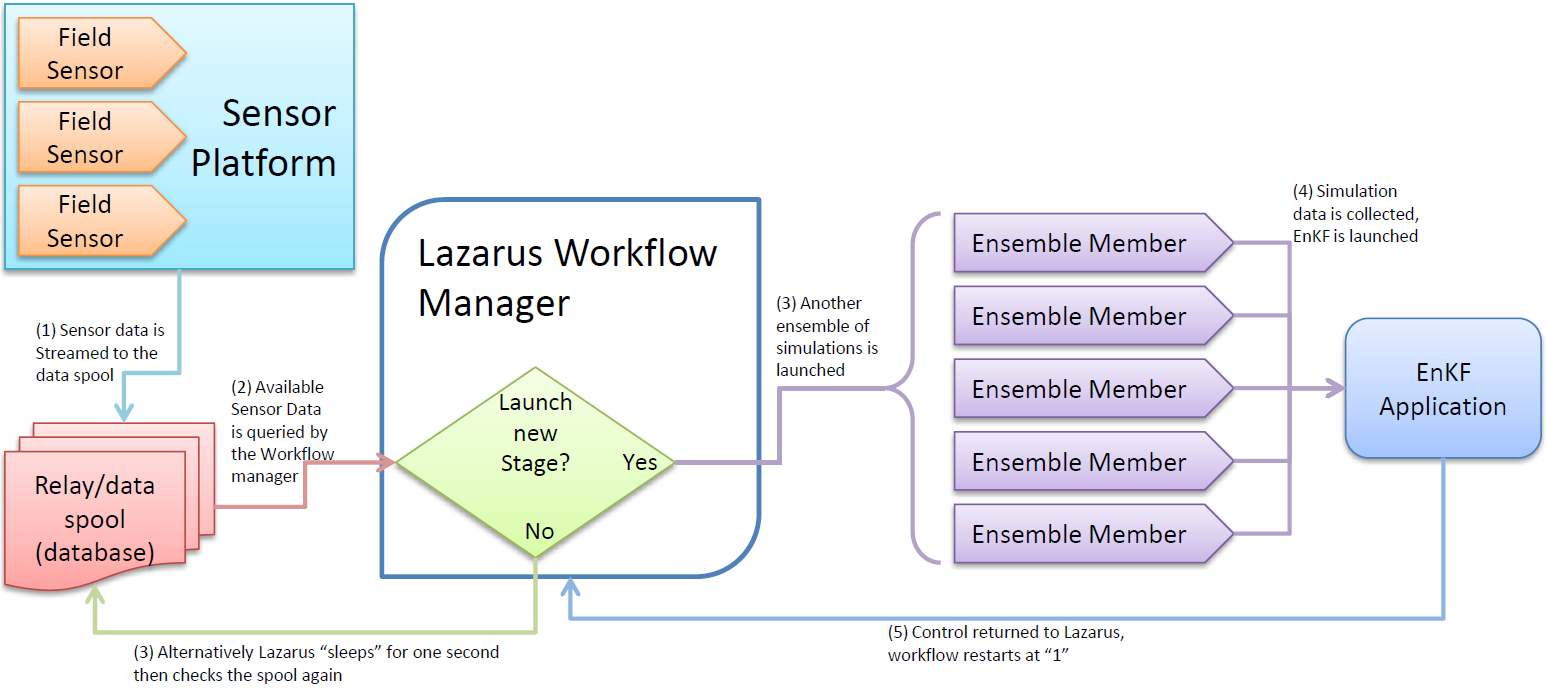
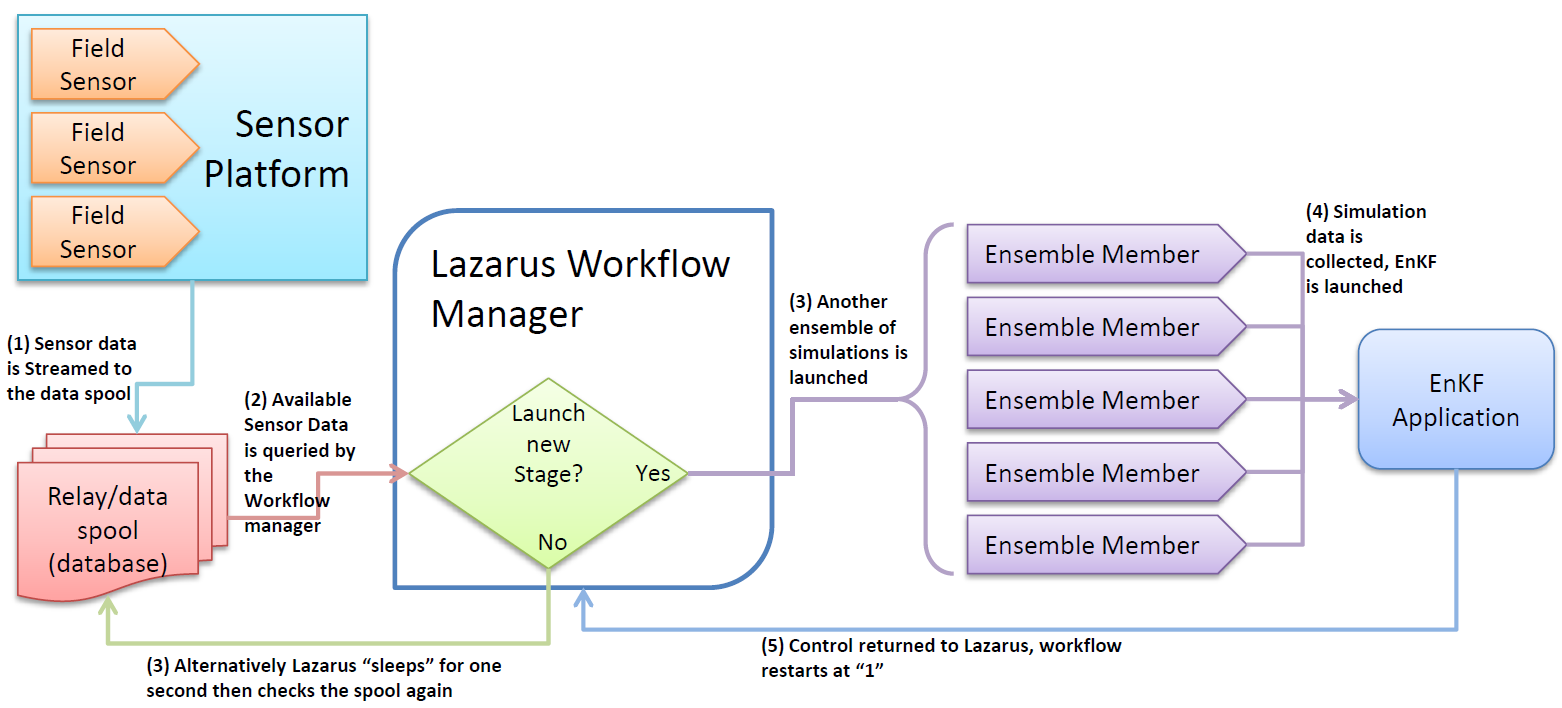
nearing final
git-svn-id: file://localhost/tmp/svn2git/svn@2732 defb5e50-622e-49ec-a68e-d72c7db87b45

Changed region(s): [[0.0, 0.0, 0.9314, 1.0], [0.8693, 0.4559, 1.0, 0.6686], [0.9314, 0.6686, 0.9625, 0.8813]]

diff --git a/papers/lazarus/UKEscience/cseq_tg2010.tex b/papers/lazarus/UKEscience/cseq_tg2010.tex
@@ -697,19 +697,27 @@ of a database is to automate real-time analysis, not to warehouse large amounts 
 \begin{center}
  \includegraphics*[scale=0.3,angle=0]{figures/EnKF.png}
 \end{center}
-\caption{Schematic illustrating the interaction of BlackOil, EnKF, S2S
-  and Lazarus. The blue arrows represent the flow of simulation data
-  while the red arrows represent the flow of sensor data. Assume that
-  we perform an analysis step every $15$ simulation days. If we have
-  just performed an assimilation at time $T$, Lazarus checks for new
-  sensor data at the Relay/data-spool. Lazarus expects history data at
-  $T+15$. If the data is available, a new stage of simulations are
-  launched, and subsequently run through the EnKF with the $T+15$
-  historical data. Lazarus then queries the database for $T+30$
-  historical data. If the data is not available yet, Lazarus continues
-  to query the database with a 1-second timed delay until $T+30$ is
-  streamed to the database from the sensors and sensor
-  platform. 
+\caption{
+  Schematic illustrating the interaction of BlackOil, EnKF, S2S
+  and Lazarus. Typically, sensor data is collected from field
+  sensors to a sensor platform and streamed to a data spool (1). The
+  available data is queried by Lazarus to check if new data is available (2).
+  If new data is available, another ensemble of simulations must be launched. Alternatively,
+  if no new data is available, Lazarus will ``sleep'' for 1 second and query the data
+  spool again. Once all the ensemble members successfully terminate, the data is collected
+  and the EnKF application is run (4). Control of the workflow is returned to Lazarus
+  (5) and the cycle begins again.
+%   Schematic illustrating the interaction of BlackOil, EnKF, S2S
+%   and Lazarus. Assume that  we perform an analysis step every $15$ simulation days. If we have
+%   just performed an assimilation at time $T$, Lazarus checks for new
+%   sensor data at the Relay/data-spool. Lazarus expects history data at
+%   $T+15$. If the data is available, a new stage of simulations are
+%   launched, and subsequently run through the EnKF with the $T+15$
+%   historical data. Lazarus then queries the database for $T+30$
+%   historical data. If the data is not available yet, Lazarus continues
+%   to query the database with a 1-second timed delay until $T+30$ is
+%   streamed to the database from the sensors and sensor
+%   platform. 
 % \jhanote{This is another diagram I'm not comfortable
 %     with}
 }
